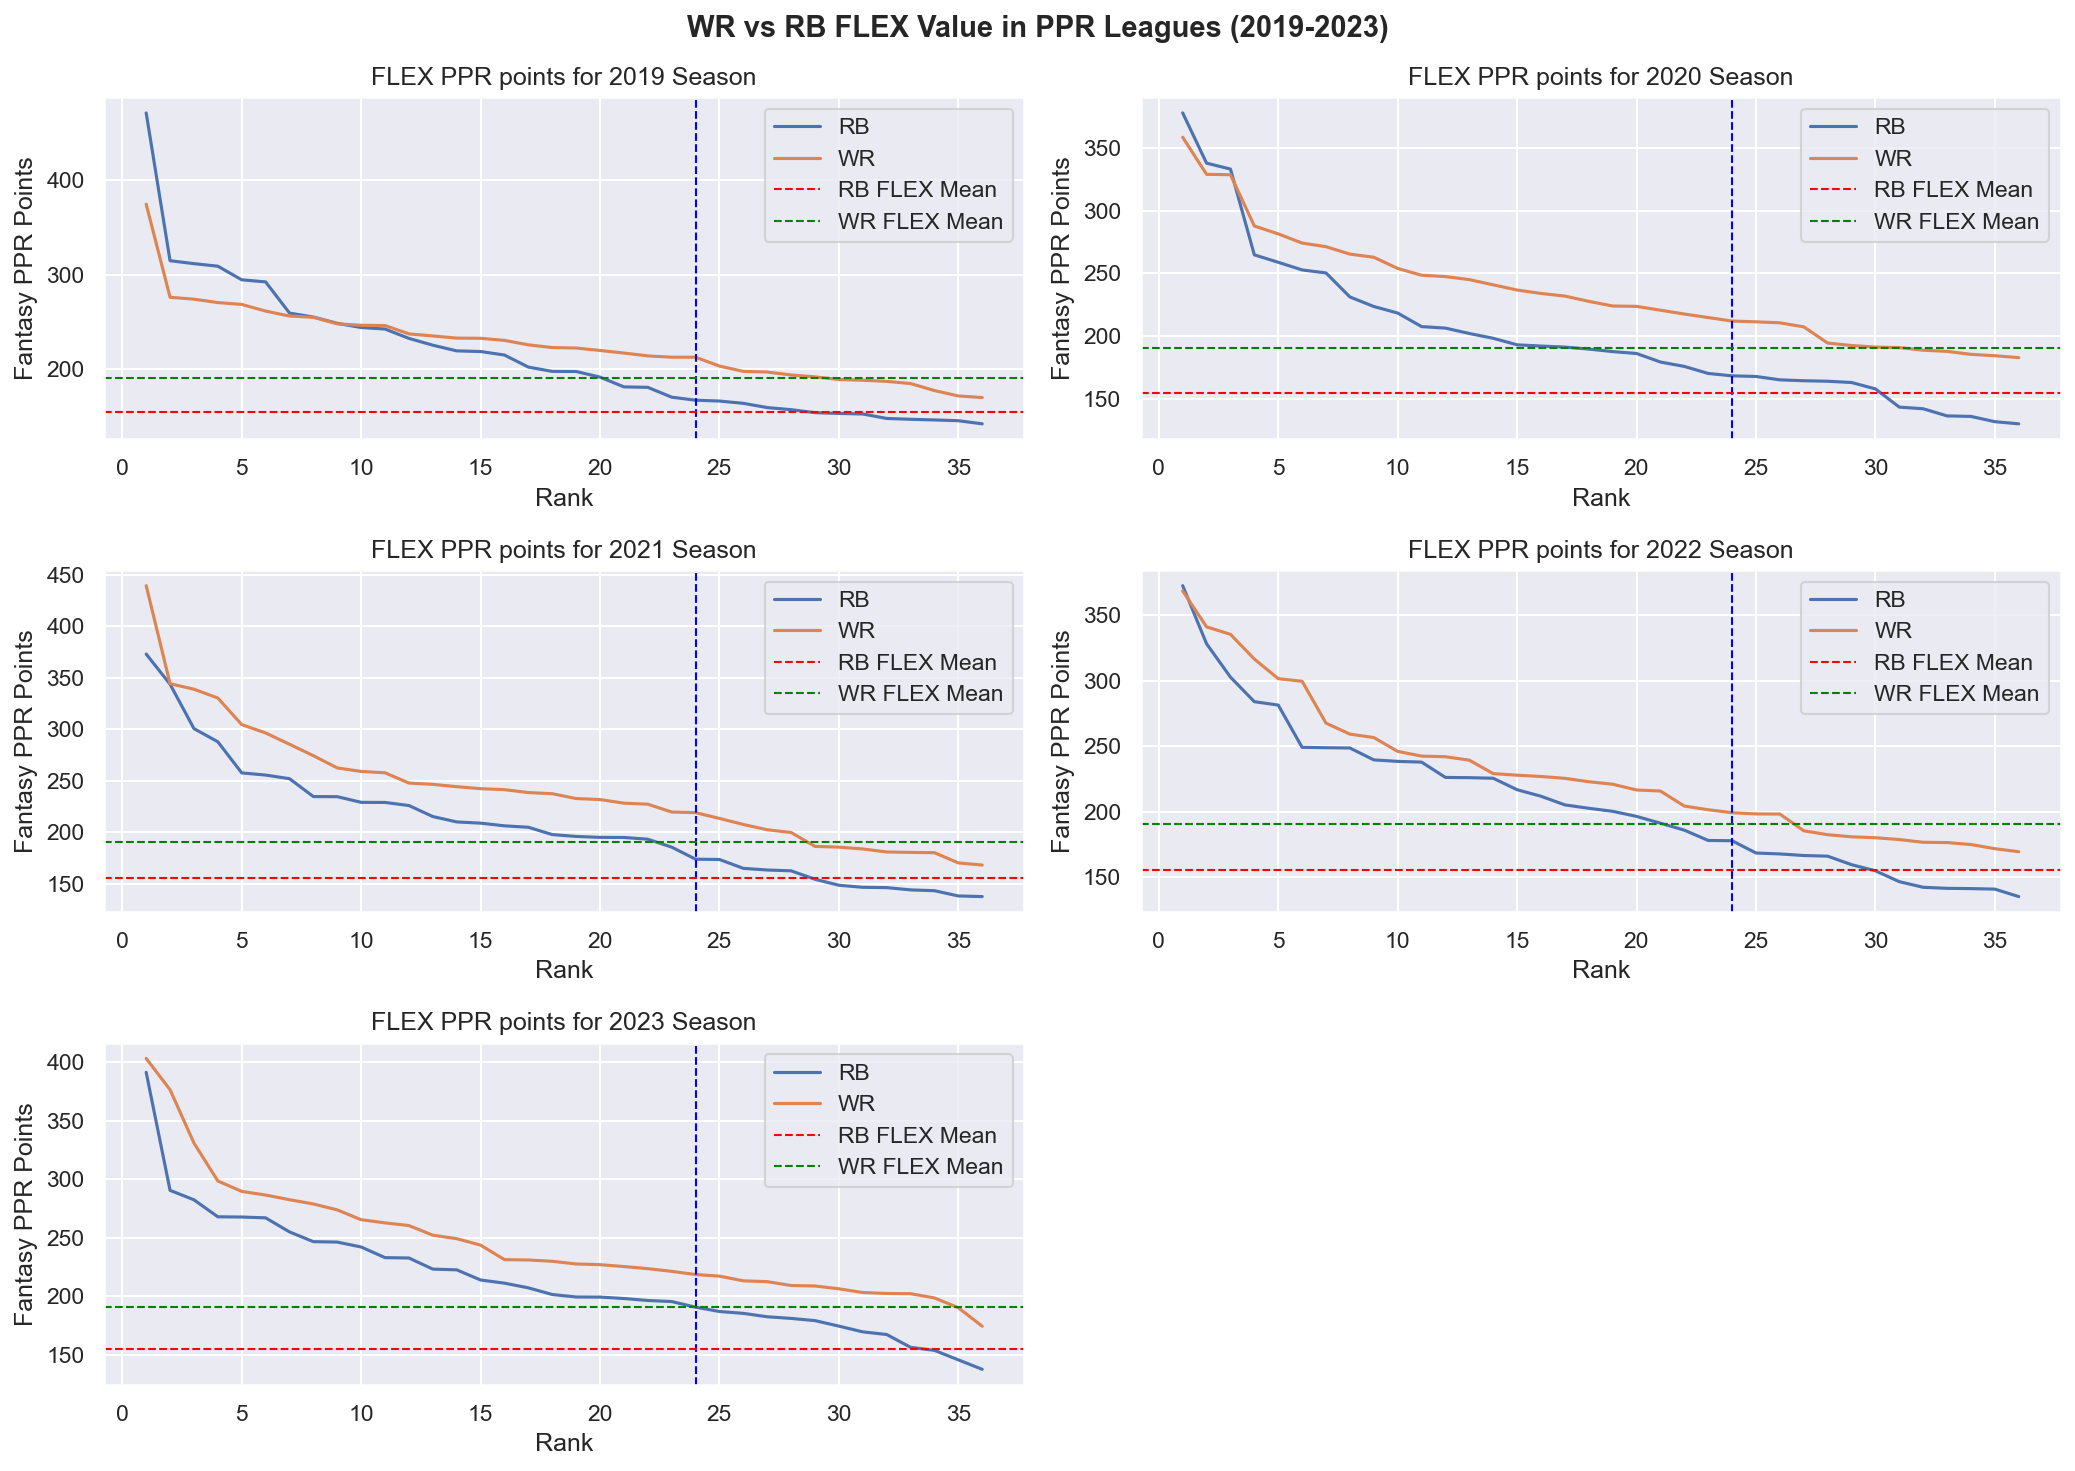
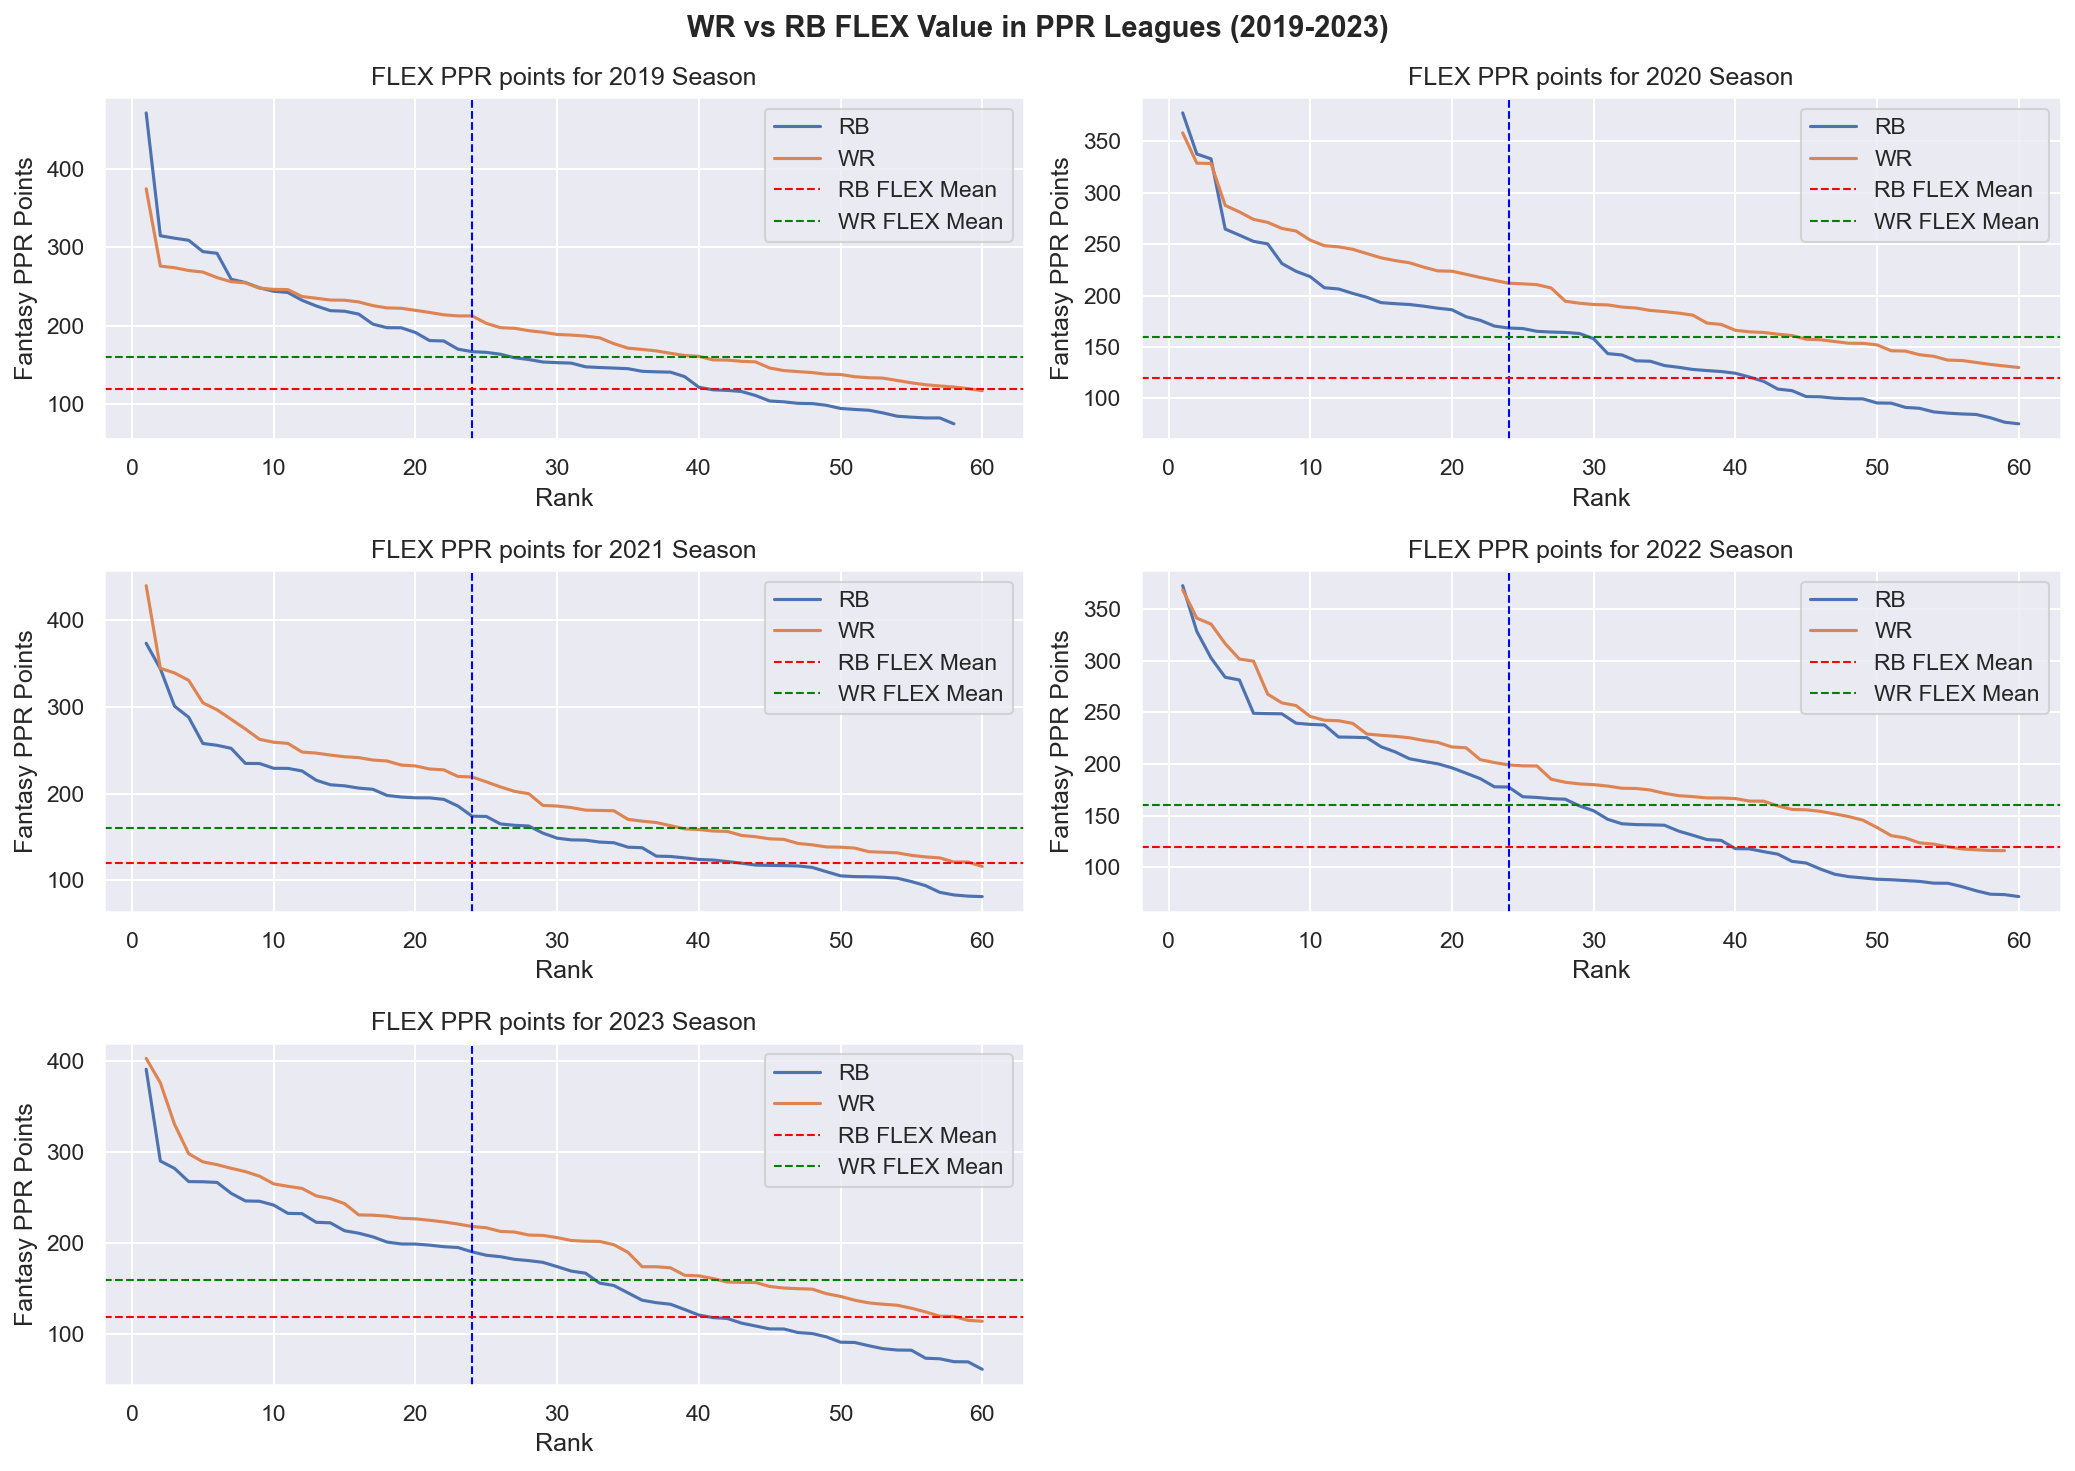
Create function to assign value for draft picks compared to their season ending ranks, build visualization classifying the draft value assigned by position

diff --git a/adp_data.py b/adp_data.py
@@ -2,7 +2,8 @@ import requests
 import pandas as pd
 from explore_data import seasons
 from explore_data import fantasy_starters
-from utils import clean_name
+from utils import clean_name, classify_draft_outcome
+from explore_data import flex_players
 
 # response = requests.get('https://fantasyfootballcalculator.com/api/v1/adp/ppr?teams=12&year=2019').json()
 
@@ -34,13 +35,28 @@ adp_data['clean_name'] = adp_data['name'].apply(clean_name)
 # print(fantasy_starters.head(30))
 # print(adp_data.head(15))
 #
-adp_merged = fantasy_starters.merge(adp_data, on=['clean_name', 'season'], how='left')
+starters_adp_merged = fantasy_starters.merge(adp_data, on=['clean_name', 'season'], how='left')
 
-#print(adp_merged.head(15))
-# print(adp_data[adp_data['clean_name'] == 'aaron jones'])
-# print(fantasy_starters[fantasy_starters['clean_name'] == 'aaron jones'])
+#adding full player depth for 15 round draft
+flex_players['clean_name'] = flex_players['player_display_name'].apply(clean_name)
+draft_adp_merged = flex_players.merge(adp_data, on=['clean_name', 'season'], how='left')
 
-# print(adp_merged[adp_merged['adp'].isna()][['player_display_name', 'position', 'season']])
-# print(adp_merged['adp'].isna().sum())
-print(adp_data[adp_data['clean_name'].str.contains('kirk')])
-print(adp_data[adp_data['season'] == 2020]['clean_name'].str.contains('kirk').sum())
+# print(draft_adp_merged.shape)
+# print(draft_adp_merged['adp'].isna().sum())
+missing_adp = draft_adp_merged[draft_adp_merged['adp'].isna()]
+# print(missing_adp.groupby(['position', 'season']).size())
+
+
+draft_adp_merged['draft_outcome'] = draft_adp_merged.apply(classify_draft_outcome, axis = 1)
+
+# print(draft_adp_merged.head(20))
+# print(draft_adp_merged[draft_adp_merged['position'] == 'QB']['draft_outcome'].value_counts())
+# print(draft_adp_merged['draft_outcome'].value_counts())
+# print(draft_adp_merged.groupby(['position', 'draft_outcome']).size())
+
+# print(draft_adp_merged.head(15))
+outcome_counts = (draft_adp_merged[draft_adp_merged['draft_outcome'].notna()].groupby(['position','draft_outcome'])
+                  .size().reset_index(name = 'count'))
+
+outcome_counts = outcome_counts.rename(columns = {'position': 'Position'})
+#print(outcome_counts.head(25))

diff --git a/utils.py b/utils.py
@@ -1,3 +1,5 @@
+import pandas as pd
+
 def build_player_pool(season_totals, pool_dict, mean_dict):
     player_pool = season_totals[season_totals['rank']<= season_totals['position'].map(pool_dict)]
     starter_pool = season_totals[season_totals['rank']<= season_totals['position'].map(mean_dict)]
@@ -29,5 +31,49 @@ def clean_name (name):
     name = name.strip()
 
     return name
+
+def classify_draft_outcome(row):
+    position = row['position']
+    rank = row['rank']
+    adp_formatted = row['adp_formatted']
+    adp = row['adp']
+
+    if pd.isna(adp_formatted):
+        if position in ['RB', 'WR'] and rank <= 12:
+            return 'Season Winner'
+        elif position in ['RB', 'WR'] and rank <= 24:
+            return 'Big Value'
+        elif position == 'QB' and rank <= 6:
+            return 'Big Value'
+        elif position == 'TE' and rank <= 6:
+            return 'Big Value'
+        return None
+
+    round_number = int(adp_formatted.split('.')[0])
+
+    if position == 'QB':
+        if round_number <= 5 and rank > 8:
+            return 'Big Bust'
+        elif round_number >= 9 and rank <= 6:
+            return 'Big Value'
+
+    elif position == 'TE':
+        if round_number <= 4 and rank > 6:
+            return 'Big Bust'
+        elif round_number >= 9 and rank <= 6:
+            return 'Big Value'
+
+    elif position in ['RB', 'WR']:
+        if adp <= 8 and rank > 24:
+            return 'Season Ender'
+        elif 9 <= adp <= 36 and rank > 24:
+            return 'Big Bust'
+        elif adp >= 74 and rank <= 12:
+            return 'Season Winner'
+        elif (37 <= adp <= 72 and rank <= 12) or (adp >= 74 and 13 <= rank <= 24):
+            return 'Big Value'
+
+    return None
+
 
 

diff --git a/visualizations.py b/visualizations.py
@@ -6,6 +6,7 @@ from explore_data import flex_players
 from explore_data import position_starters
 from explore_data import flex_depth
 from explore_data import seasons
+from adp_data import outcome_counts
 
 
 
@@ -57,4 +58,17 @@ fig.suptitle('WR vs RB FLEX Value in PPR Leagues (2019-2023)',
              fontsize=14, fontweight='bold')
 plt.tight_layout()
 plt.savefig('images/flex_analysis.png', dpi=150, bbox_inches='tight' )
+plt.show()
+
+#bust/value visualizations
+
+sns.set_theme(style="darkgrid")
+
+sns.barplot(outcome_counts, x = 'draft_outcome' , y = 'count', hue = 'Position', order= ['Season Winner', 'Big Value',
+                                                                                         'Season Ender', 'Big Bust'] )
+plt.title('Draft Value/Bust by position 2019-2023', fontsize=14, fontweight='bold')
+plt.xlabel('Draft Outcome')
+plt.ylabel('Count')
+
+plt.tight_layout()
 plt.show()

diff --git a/explore_data.py b/explore_data.py
@@ -7,7 +7,7 @@ pd.set_option('display.width', 200)
 
 seasons = [2019, 2020, 2021, 2022, 2023]
 position_starters = {'QB': 12, 'RB': 24, 'WR': 24, 'TE': 12}
-flex_depth = {'QB': 20, 'RB': 36, 'WR': 36, 'TE': 20}
+flex_depth = {'QB': 24, 'RB': 60, 'WR': 60, 'TE': 24}
 
 # Data loading
 players = nfl.load_player_stats(seasons)
@@ -50,3 +50,6 @@ flex_players = build_player_pool(season_totals, flex_depth, position_starters)
 # flex_depth = season_totals[season_totals['rank'] <= season_totals['position'].map(position_depth)]
 #
 # print(fantasy_starters.head(20))
+# print(season_totals.groupby(['position', 'season']).size())
+# print(flex_players.shape)
+# print(flex_players.groupby(['position', 'season']).size())

diff --git a/README.md b/README.md
@@ -4,3 +4,27 @@ Season long point differential analysis by top scorers in each position
 ![Position Differential Chart](images/position_differential.png)
 
 ![FLEX Analysis Chart](images/flex_analysis.png)
+
+## Data Limitations
+
+- ADP data sourced from Fantasy Football Calculator API for QB, RB, WR and TE positions.
+  Data gaps exist for some players in certain seasons, resulting in an approximate 88% match rate for starters and an 
+  approximate 75% for the full draft pool.
+- Missing ADP values are a mix of data gaps, undrafted players and rookies.
+  
+
+#Roadmap
+v2 
+build draft outcome classifier (value/bust)
+bust by round visualization
+value by round visualization
+csv and markdown of value/busts
+
+v2.5 
+positional draft composition by round (first 3, % of picks going to which position)
+Trends: Does early TE/QB offer advantage?
+
+v3
+how does nfl team win/loss record correlate with fantasy performance
+does a winning team = more fantasy points
+does a winning team help RB or WR more
